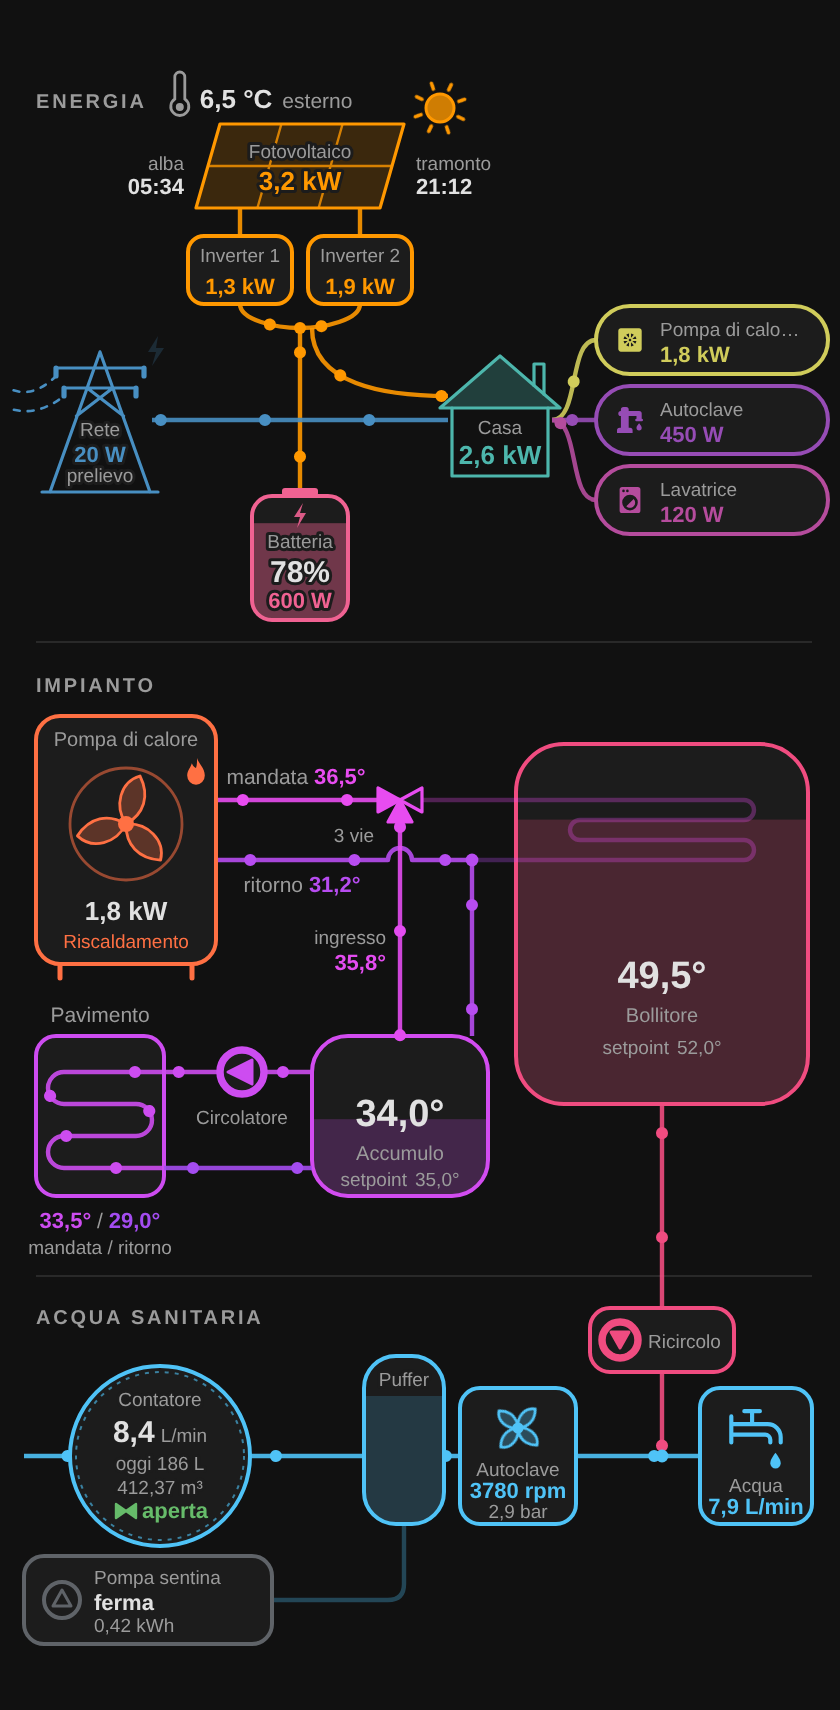
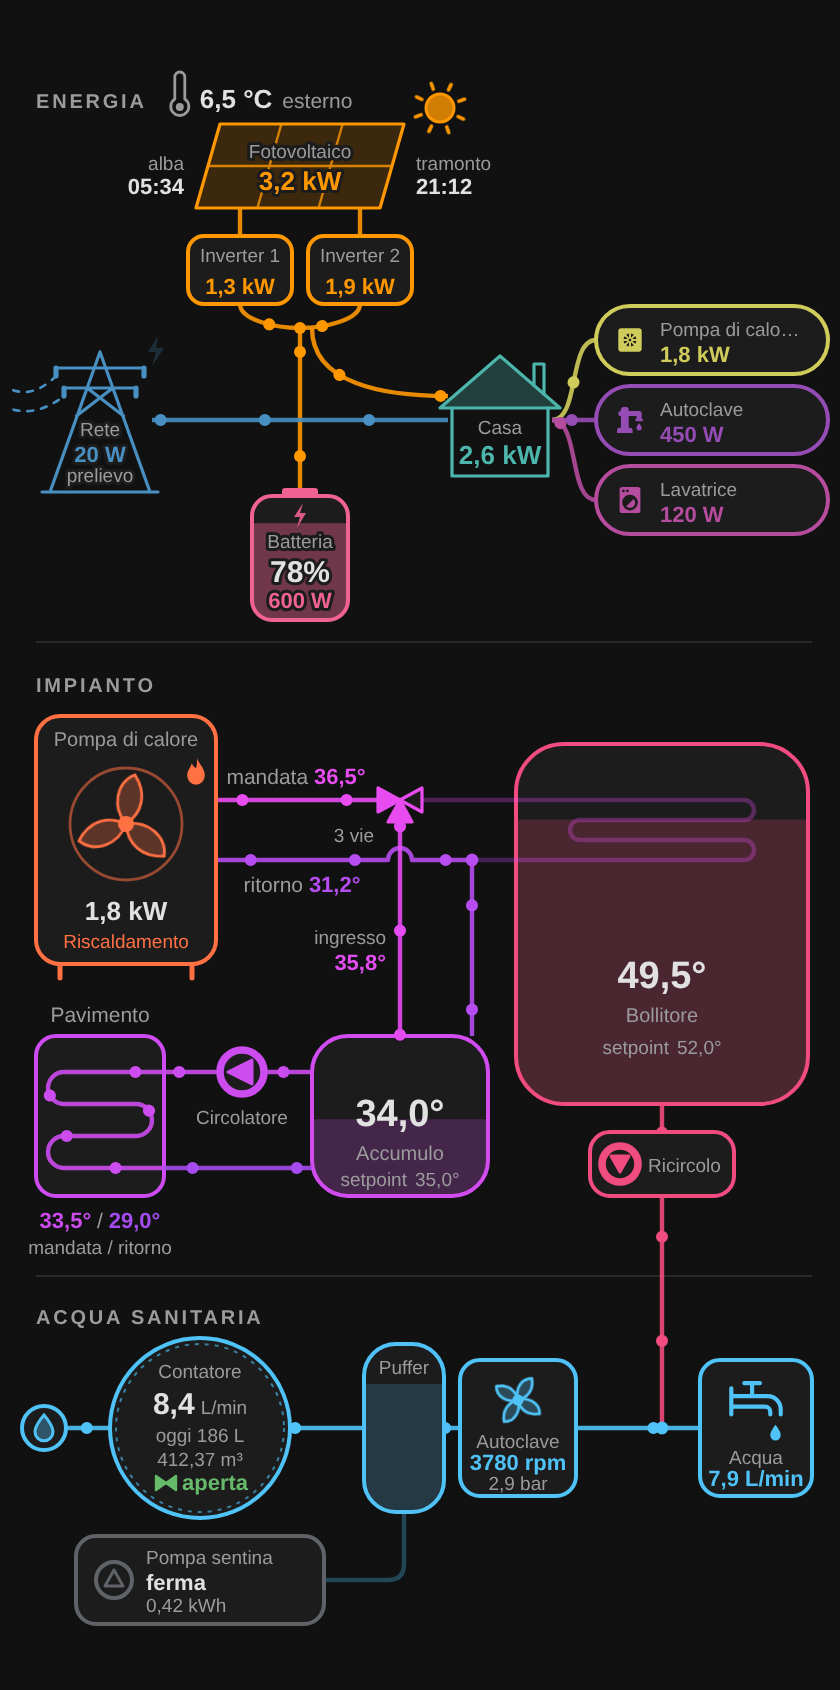
Add files via upload

diff --git a/pdc-flow-card.js b/pdc-flow-card.js
@@ -48,7 +48,7 @@
  *   soglia_energia: 0          # facoltativo: kW sopra cui rete e batteria si animano (0 = qualsiasi valore)
  */
 
-const PDC_VERSION = '0.26.0';
+const PDC_VERSION = '0.27.0';
 
 // Nomi predefiniti dei componenti (sezione "nomi:")
 const PDC_NOMI = {
@@ -310,14 +310,14 @@ const PDC_FLOWS = {
   floor: 'M82 214 H32 A8 8 0 0 0 32 230 H68 A8 8 0 0 1 68 246 H32 A8 8 0 0 0 32 262 H82',
   fr: 'M82 262 H156',
   // acqua (riga principale a 450; sotto, la seconda riga con la pompa sentina)
-  wa: 'M54 450 H202',
-  wb: 'M202 450 H331',
-  wout: 'M331 450 H350',
-  ws: 'M202 484 V514 Q202 522 194 522 H136',
-  whot: 'M331 230 V406',
+  wa: 'M54 436 H202',
+  wb: 'M202 436 H331',
+  wout: 'M331 436 H350',
+  ws: 'M202 478 V504 Q202 512 194 512 H162',
+  whot: 'M331 230 V392',
 };
 // Linea della sentina quando il puffer non c'è: parte dalla linea dell'acqua
-const PDC_WS_NOPUFFER = 'M202 450 V514 Q202 522 194 522 H136';
+const PDC_WS_NOPUFFER = 'M202 436 V504 Q202 512 194 512 H162';
 
 // Sezione energia: altezza minima e posizione delle utenze
 const PDC_EH = 292;
@@ -355,7 +355,7 @@ const pdcFlow = (id) =>
   `<g class="flow" id="f-${id}"><path class="pipe" d="${PDC_FLOWS[id]}"/><path class="dots" d="${PDC_FLOWS[id]}"/></g>`;
 
 const PDC_BLADE = 'M63 90 C57 81 60 69 70 66 C75 76 72 85 63 90 Z';
-const PDC_IMP = 'M259 436 C255.4 431.2 256.6 425.2 261.4 423.4 C264.4 428.2 263.2 433 259 436 Z';
+const PDC_IMP = 'M259 422 C255.4 417.2 256.6 411.2 261.4 409.4 C264.4 414.2 263.2 419 259 422 Z';
 
 const PDC_SVG_ENERGY = `
 <svg id="sv-e" x="0" y="0" width="420" height="${PDC_EH}" viewBox="0 0 420 ${PDC_EH}">
@@ -455,7 +455,7 @@ ${PDC_SVG_ENERGY}
   <defs>
     <clipPath id="cp-boiler"><rect x="258" y="50" width="146" height="180" rx="24"/></clipPath>
     <clipPath id="cp-accu"><rect x="156" y="196" width="88" height="80" rx="18"/></clipPath>
-    <clipPath id="cp-puffer"><rect x="182" y="400" width="40" height="84" rx="16"/></clipPath>
+    <clipPath id="cp-puffer"><rect x="182" y="394" width="40" height="84" rx="16"/></clipPath>
   </defs>
 
   <!-- ===== SEZIONE IMPIANTO ===== -->
@@ -563,6 +563,13 @@ ${PDC_SVG_ENERGY}
   <!-- ===== SEZIONE ACQUA SANITARIA ===== -->
   <text x="18" y="340" class="sec" id="n-sezione_acqua">ACQUA SANITARIA</text>
   ${pdcFlow('whot')}
+  <!-- Ricircolo: pompa sulla linea che scende dal bollitore, sotto il bollitore (parte impianto) -->
+  <g id="g-rpump" class="pump clickable" data-key="ricircolo">
+    <rect class="box" x="295" y="244" width="72" height="32" rx="10"/>
+    <circle class="pring" cx="310" cy="260" r="9"/>
+    <path class="ptri" d="M305.5 256 L310 264 L314.5 256 Z"/>
+    <text x="324" y="264" class="lbl xs" id="n-ricircolo">Ricircolo</text>
+  </g>
 
   <!-- Contenuto dell'acqua spostato 44 più in alto (stesse coordinate di prima) -->
   <svg id="sv-w" x="0" y="-44" width="420" height="600" viewBox="0 0 420 600">
@@ -570,30 +577,28 @@ ${PDC_SVG_ENERGY}
   ${pdcFlow('wb')}
   ${pdcFlow('wout')}
   ${pdcFlow('ws')}
-  <circle id="jn-w" class="jn" cx="331" cy="450" r="3.2"/>
+  <circle id="jn-w" class="jn" cx="331" cy="436" r="3.2"/>
 
-  <!-- Ricircolo: pompa sulla linea che scende dal bollitore, nome dentro -->
-  <g id="g-rpump" class="pump clickable" data-key="ricircolo">
-    <rect class="box" x="295" y="376" width="72" height="32" rx="10"/>
-    <circle class="pring" cx="310" cy="392" r="9"/>
-    <path class="ptri" d="M305.5 388 L310 396 L314.5 388 Z"/>
-    <text x="324" y="396" class="lbl xs" id="n-ricircolo">Ricircolo</text>
+  <!-- Inizio della linea (contatore unico): piccolo cerchio con la goccia -->
+  <g id="g-src">
+    <circle class="box" cx="22" cy="436" r="11"/>
+    <path class="drop" d="M22 429.5 C24.8 432.8 26.5 435.2 26.5 437.9 A4.5 4.5 0 0 1 17.5 437.9 C17.5 435.2 19.2 432.8 22 429.5 Z"/>
   </g>
 
   <!-- Rete -->
   <g id="g-rete">
-    <rect class="box" x="12" y="416" width="42" height="68" rx="10"/>
-    <path class="drop" d="M33 426 C37.5 431.5 40.5 435.5 40.5 440 A7.5 7.5 0 0 1 25.5 440 C25.5 435.5 28.5 431.5 33 426 Z"/>
-    <text x="33" y="474" class="lbl c xs" id="n-rete">Rete</text>
+    <rect class="box" x="12" y="402" width="42" height="68" rx="10"/>
+    <path class="drop" d="M33 412 C37.5 417.5 40.5 421.5 40.5 426 A7.5 7.5 0 0 1 25.5 426 C25.5 421.5 28.5 417.5 33 412 Z"/>
+    <text x="33" y="460" class="lbl c xs" id="n-rete">Rete</text>
   </g>
 
   <!-- Stop acqua -->
   <g id="g-stop" class="clickable" data-key="acqua_valvola|acqua_stop">
-    <rect class="box" x="60" y="416" width="42" height="68" rx="10"/>
-    <path class="valve" d="M72 435 L90 447 V435 L72 447 Z"/>
-    <path class="stem" d="M81 441 V429 M76.5 429 H85.5"/>
-    <text x="81" y="464" class="lbl c xs" id="n-stop">Stop</text>
-    <text x="81" y="476" class="tv c xs" id="t-stop">—</text>
+    <rect class="box" x="60" y="402" width="42" height="68" rx="10"/>
+    <path class="valve" d="M72 421 L90 433 V421 L72 433 Z"/>
+    <path class="stem" d="M81 427 V415 M76.5 415 H85.5"/>
+    <text x="81" y="450" class="lbl c xs" id="n-stop">Stop</text>
+    <text x="81" y="462" class="tv c xs" id="t-stop">—</text>
   </g>
 
   <!-- Contatore: nome, portata, litri di oggi, totale e valvola dentro (posizioni in _layoutMeter) -->
@@ -613,46 +618,46 @@ ${PDC_SVG_ENERGY}
 
   <!-- Puffer: nome dentro -->
   <g id="g-puffer">
-    <rect class="tank" x="182" y="400" width="40" height="84" rx="16"/>
-    <rect id="fill-puffer" class="fill" clip-path="url(#cp-puffer)" x="182" y="420" width="40" height="64"/>
-    <rect class="tank-o" x="182" y="400" width="40" height="84" rx="16"/>
-    <text x="202" y="415" class="lbl c xs halo" id="n-puffer">Puffer</text>
+    <rect class="tank" x="182" y="394" width="40" height="84" rx="16"/>
+    <rect id="fill-puffer" class="fill" clip-path="url(#cp-puffer)" x="182" y="414" width="40" height="64"/>
+    <rect class="tank-o" x="182" y="394" width="40" height="84" rx="16"/>
+    <text x="202" y="409" class="lbl c xs halo" id="n-puffer">Puffer</text>
   </g>
 
   <!-- Autoclave: girante, nome, stato e pressione dentro -->
   <g id="g-auto" class="clickable" data-key="autoclave_comando|autoclave_velocita|autoclave_portata|autoclave_pressione|autoclave_stato">
-    <rect class="box" x="230" y="416" width="58" height="68" rx="10"/>
+    <rect class="box" x="230" y="402" width="58" height="68" rx="10"/>
     <g class="imp">
       <path class="blade" d="${PDC_IMP}"/>
-      <path class="blade" d="${PDC_IMP}" transform="rotate(90 259 436)"/>
-      <path class="blade" d="${PDC_IMP}" transform="rotate(180 259 436)"/>
-      <path class="blade" d="${PDC_IMP}" transform="rotate(270 259 436)"/>
+      <path class="blade" d="${PDC_IMP}" transform="rotate(90 259 422)"/>
+      <path class="blade" d="${PDC_IMP}" transform="rotate(180 259 422)"/>
+      <path class="blade" d="${PDC_IMP}" transform="rotate(270 259 422)"/>
     </g>
-    <circle class="hub" cx="259" cy="436" r="2.8"/>
-    <text x="259" y="460" class="lbl c xs" id="n-autoclave">Autoclave</text>
-    <text x="259" y="471" class="tv c xs" id="t-ac-rpm">—</text>
-    <text x="259" y="481" class="lbl c xs" id="t-ac-bar"></text>
+    <circle class="hub" cx="259" cy="422" r="2.8"/>
+    <text x="259" y="446" class="lbl c xs" id="n-autoclave">Autoclave</text>
+    <text x="259" y="457" class="tv c xs" id="t-ac-rpm">—</text>
+    <text x="259" y="467" class="lbl c xs" id="t-ac-bar"></text>
   </g>
 
   <!-- Rubinetto: unica uscita, calda o fredda non si può sapere -->
   <g id="g-tap">
-    <rect class="box" x="350" y="416" width="56" height="68" rx="10"/>
-    <g transform="translate(378 438) scale(1.3) translate(-384.5 -470)">
+    <rect class="box" x="350" y="402" width="56" height="68" rx="10"/>
+    <g transform="translate(378 424) scale(1.3) translate(-384.5 -470)">
       <path class="ico2" d="M375 464 V474 M375 467 H389 A5 5 0 0 1 394 472 V474 M375 471 H388 A2 2 0 0 1 390 473 V474 M383 467 V462 M380 462 H386"/>
       <path class="drip" d="M392 478 C393.5 480 394 481 394 482 A2 2 0 0 1 390 482 C390 481 390.5 480 392 478 Z"/>
     </g>
-    <text x="378" y="468" class="lbl c xs" id="n-rubinetto">Acqua</text>
-    <text x="378" y="479" class="tv c xs" id="t-tap"></text>
+    <text x="378" y="454" class="lbl c xs" id="n-rubinetto">Acqua</text>
+    <text x="378" y="465" class="tv c xs" id="t-tap"></text>
   </g>
 
   <!-- Pompa sentina (seconda riga): linea dal puffer, nome, stato ed energia dentro -->
   <g id="g-sentina" class="pump clickable" data-key="sentina_potenza|sentina_energia|sentina_stato">
-    <rect class="box" x="12" y="500" width="124" height="44" rx="10"/>
-    <circle class="pring" cx="31" cy="522" r="9"/>
-    <path class="ptri" d="M26.5 525 L31 517 L35.5 525 Z"/>
-    <text x="47" y="514" class="lbl xs" id="n-sentina">Pompa sentina</text>
-    <text x="47" y="527" class="tv xs" id="t-sent">—</text>
-    <text x="47" y="538" class="lbl xs" id="t-sent-kwh"></text>
+    <rect class="box" x="38" y="490" width="124" height="44" rx="10"/>
+    <circle class="pring" cx="57" cy="512" r="9"/>
+    <path class="ptri" d="M52.5 515 L57 507 L61.5 515 Z"/>
+    <text x="73" y="504" class="lbl xs" id="n-sentina">Pompa sentina</text>
+    <text x="73" y="517" class="tv xs" id="t-sent">—</text>
+    <text x="73" y="528" class="lbl xs" id="t-sent-kwh"></text>
   </g>
   </svg>
 </svg>
@@ -687,7 +692,7 @@ const PDC_CSS = `
   .leg    { stroke: var(--c, var(--pdc-idle)); stroke-width: 2.5; stroke-linecap: round; }
   .fan    { transform-box: view-box; transform-origin: 63px 90px; }
   .run .fan { animation: pdc-spin 1s linear infinite; }
-  .imp      { transform-box: view-box; transform-origin: 259px 436px; }
+  .imp      { transform-box: view-box; transform-origin: 259px 422px; }
   .run .imp { animation: pdc-spin var(--spin, .6s) linear infinite; }
   #fill-puffer { fill: var(--c, var(--pdc-idle)); fill-opacity: .18; }
 
@@ -1029,8 +1034,8 @@ class PdcFlowCard extends HTMLElement {
 
   // Contatore: piccolo (r 34, accanto a rete e stop) oppure più grande (r 42) con totale e valvola dentro
   _layoutMeter(merge) {
-    const cx = merge ? 80 : 141;
-    const cy = 450;
+    const cx = merge ? 100 : 141;
+    const cy = 436;
     const r = merge ? 45 : 34;
     const set = (id, attrs) => {
       const el = this._els[id];
@@ -1048,7 +1053,7 @@ class PdcFlowCard extends HTMLElement {
     set('m-vico', { transform: `translate(${cx - 17} ${cy + 27.5})` });
     set('t-mvalve', { x: cx - 9, y: cy + 31 });
     // la linea dell'acqua entra dal bordo sinistro (senza icona della rete) oppure dall'icona della rete
-    const wa = merge ? 'M12 450 H202' : PDC_FLOWS.wa;
+    const wa = merge ? 'M22 436 H202' : PDC_FLOWS.wa;
     this._els['f-wa'].querySelectorAll('path').forEach((p) => p.setAttribute('d', wa));
   }
 
@@ -1280,6 +1285,7 @@ class PdcFlowCard extends HTMLElement {
     const MERGE = c.acqua_separata !== true && (METER || OGGI);
     this._vis(['div-a', 'n-sezione_acqua', 'f-wa', 'f-wb', 'f-wout', 'g-tap', 'n-rubinetto'], WATER);
     this._vis(['g-rete', 'n-rete'], WATER && !MERGE);
+    this._vis(['g-src'], WATER && MERGE);
     this._vis(['g-stop'], WATER && STOP && !MERGE);
     this._vis(['g-meter'], WATER && (METER || OGGI));
     this._vis(['m-valve'], MERGE && STOP);
@@ -1306,16 +1312,19 @@ class PdcFlowCard extends HTMLElement {
     }
     // L'acqua sale ancora di 24 se sotto il pavimento non ci sono le temperature
     const wUp = FTEMPS ? 0 : 24;
-    if (this._wUp !== wUp) {
+    // con il titolo "ACQUA SANITARIA" nascosto le icone dell'acqua salgono di altri 14
+    const wHdr = this._els['n-sezione_acqua'].textContent ? 0 : 14;
+    if (this._wUp !== wUp || this._wHdr !== wHdr) {
       this._els['div-a'].setAttribute('y1', 316 - wUp);
       this._els['div-a'].setAttribute('y2', 316 - wUp);
       this._els['n-sezione_acqua'].setAttribute('y', 340 - wUp);
-      this._els['sv-w'].setAttribute('y', -44 - wUp);
-      this._els['f-whot'].querySelectorAll('path').forEach((pth) => pth.setAttribute('d', `M331 230 V${406 - wUp}`));
+      this._els['sv-w'].setAttribute('y', -44 - wUp - wHdr);
+      this._els['f-whot'].querySelectorAll('path').forEach((pth) => pth.setAttribute('d', `M331 230 V${392 - wUp - wHdr}`));
       this._wUp = wUp;
+      this._wHdr = wHdr;
     }
-    // acqua: una riga (fino a 484) oppure due con la sentina (fino a 544)
-    const hm = !ANY ? 190 : WATER ? (SENT ? 508 : 448) - wUp : FTEMPS ? 318 : 294;
+    // acqua: una riga (fino a 481) oppure due con la sentina (fino a 534)
+    const hm = !ANY ? 190 : WATER ? (SENT ? 498 : 446) - wUp - wHdr : FTEMPS ? 318 : 294;
 
     // ---- Energia ----
     // Velocità dei pallini: più potenza = più veloci (da 3,2 s a 0,3 s per tratto)
@@ -1671,6 +1680,7 @@ class PdcFlowCard extends HTMLElement {
     const durW = outFlow ? Math.max(0.5, 3.2 / (1 + (outLpm || 5) / 5)) : 2;
 
     this._color('g-rete', fixed('rete') || COLD);
+    this._color('g-src', fixed('rete') || COLD);
     const openCol = col('stop', PDC_COL.open);
     this._color('g-stop', stopState === null ? null : stopState ? PDC_COL.closed : openCol);
     this._text('t-stop', stopState === null ? '—' : stopState ? 'chiusa' : 'aperta',

diff --git a/README.md b/README.md
@@ -23,7 +23,7 @@ Card per la dashboard di Home Assistant che disegna in modo animato l'energia di
   - pompa di calore con potenza, modalità e un'icona della funzione attiva (riscaldamento, raffrescamento, acqua sanitaria);
   - valvola a 3 vie, bollitore, accumulo, circolatore e pavimento, con mandata, ritorno e setpoint.
 - **Acqua sanitaria:**
-  - contatore (L/min, litri di oggi, totale e valvola aperta/chiusa, tutto dentro il contatore), puffer, autoclave, ricircolo dal bollitore e rubinetto;
+  - la linea parte da un piccolo cerchio con la goccia, poi contatore (L/min, litri di oggi, totale e valvola aperta/chiusa, tutto dentro il contatore), puffer, autoclave e rubinetto, centrati sulla stessa linea; la pompa del ricircolo è sotto il bollitore;
   - il contatore riempie il puffer; dal puffer al rubinetto l'acqua scorre quando l'autoclave è in funzione;
   - sotto, in una seconda riga, la pompa sentina collegata al puffer, con stato ed energia consumata.
 
@@ -217,7 +217,7 @@ A Home Assistant dashboard card that draws an animated view of the home's energy
   - heat pump with power, mode and an icon of the active function (heating, cooling, hot water);
   - 3-way valve, hot water tank, buffer tank, circulator and underfloor heating, with flow, return and setpoints.
 - **Domestic water:**
-  - water meter (L/min, today's litres, total and shut-off valve open/closed, all inside the meter), break tank, booster pump, hot-water recirculation and tap;
+  - the line starts from a small circle with a water drop, then water meter (L/min, today's litres, total and shut-off valve open/closed, all inside the meter), break tank, booster pump and tap, centred on the same line; the recirculation pump sits below the hot water tank;
   - the meter fills the break tank; water flows from the tank to the tap only while the booster pump is running;
   - below, on a second row, the sump pump connected to the break tank, with its status and energy used.
 
